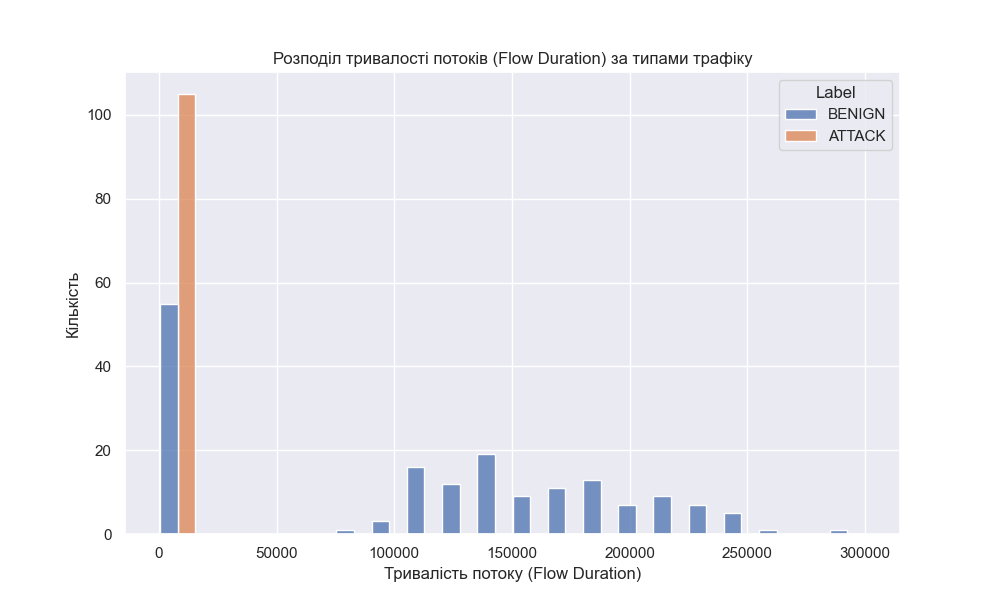
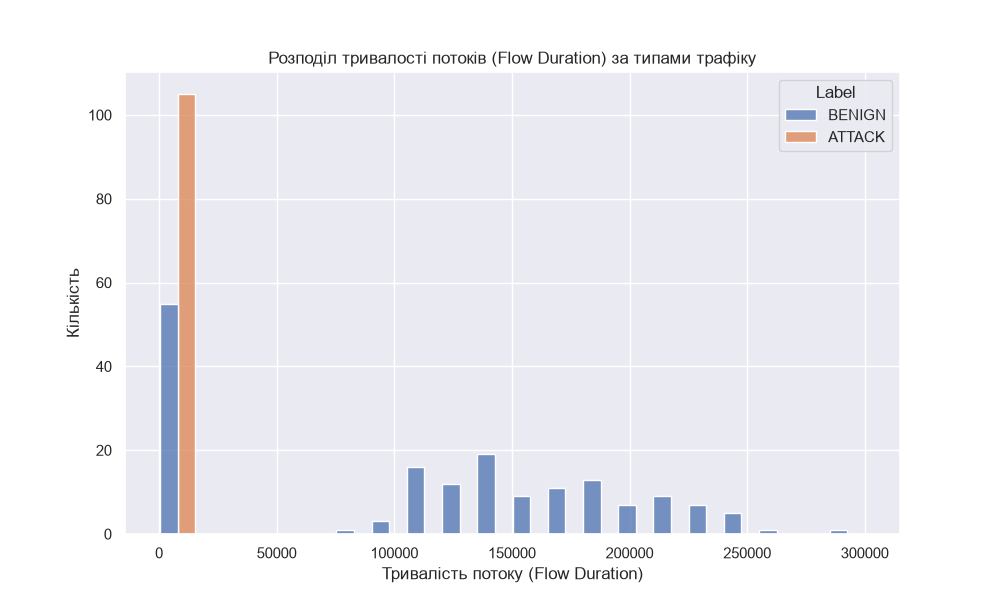
2 та 4 завдання

diff --git a/main.py b/main.py
@@ -64,3 +64,44 @@ plt.ylabel("Кількість")
 plt.savefig("traffic_visualization.png")
 print("Графік успішно збережено у файл traffic_visualization та готовий до звіту")
 plt.show()
+
+
+df_transformed = pd.get_dummies(
+    df, 
+    columns=['Protocol', 'Connection_State'], 
+    prefix=['Protocol', 'State'], 
+    dtype=int
+)
+
+
+df_transformed['fwd_bwd_packet_ratio'] = df_transformed['Total_Fwd_Packets'] / (df_transformed['Total_Backward_Packets'] + 1e-5)
+df_transformed['bytes_per_packet_mean'] = df_transformed['Flow_Bytes_per_s'] / (df_transformed['Flow_Packets_per_s'] + 1e-5)
+df_transformed['packet_growth_rate'] = (df_transformed['Total_Fwd_Packets'] - df_transformed['Total_Backward_Packets']) / df_transformed['Flow_Duration']
+
+output_filename = 'cybersecurity_network_traffic_transformed.csv'
+df_transformed.to_csv(output_filename, index=False)
+
+print(f"Трансформований датасет збережено у файл: {output_filename}")
+
+
+plt.figure(figsize=(12, 5))
+
+plt.subplot(1, 2, 1)
+sns.histplot(df['Flow_Duration'], kde=True, color='blue')
+plt.title('Розподіл тривалості потоку (Flow_Duration)')
+
+plt.subplot(1, 2, 2)
+sns.histplot(df['Flow_Bytes_per_s'], kde=True, color='green')
+plt.title('Розподіл інтенсивності трафіку (Flow_Bytes_per_s)')
+
+plt.tight_layout()
+plt.show()
+
+plt.figure(figsize=(8, 5))
+sns.boxplot(x='Protocol', y='Flow_Bytes_per_s', data=df)
+plt.title('Порівняння інтенсивності трафіку (Flow_Bytes_per_s) за протоколами')
+plt.show()
+
+pairplot_cols = ['Flow_Duration', 'Total_Fwd_Packets', 'Total_Backward_Packets', 'Flow_Bytes_per_s']
+sns.pairplot(df[pairplot_cols], diag_kind='kde')
+plt.show()
